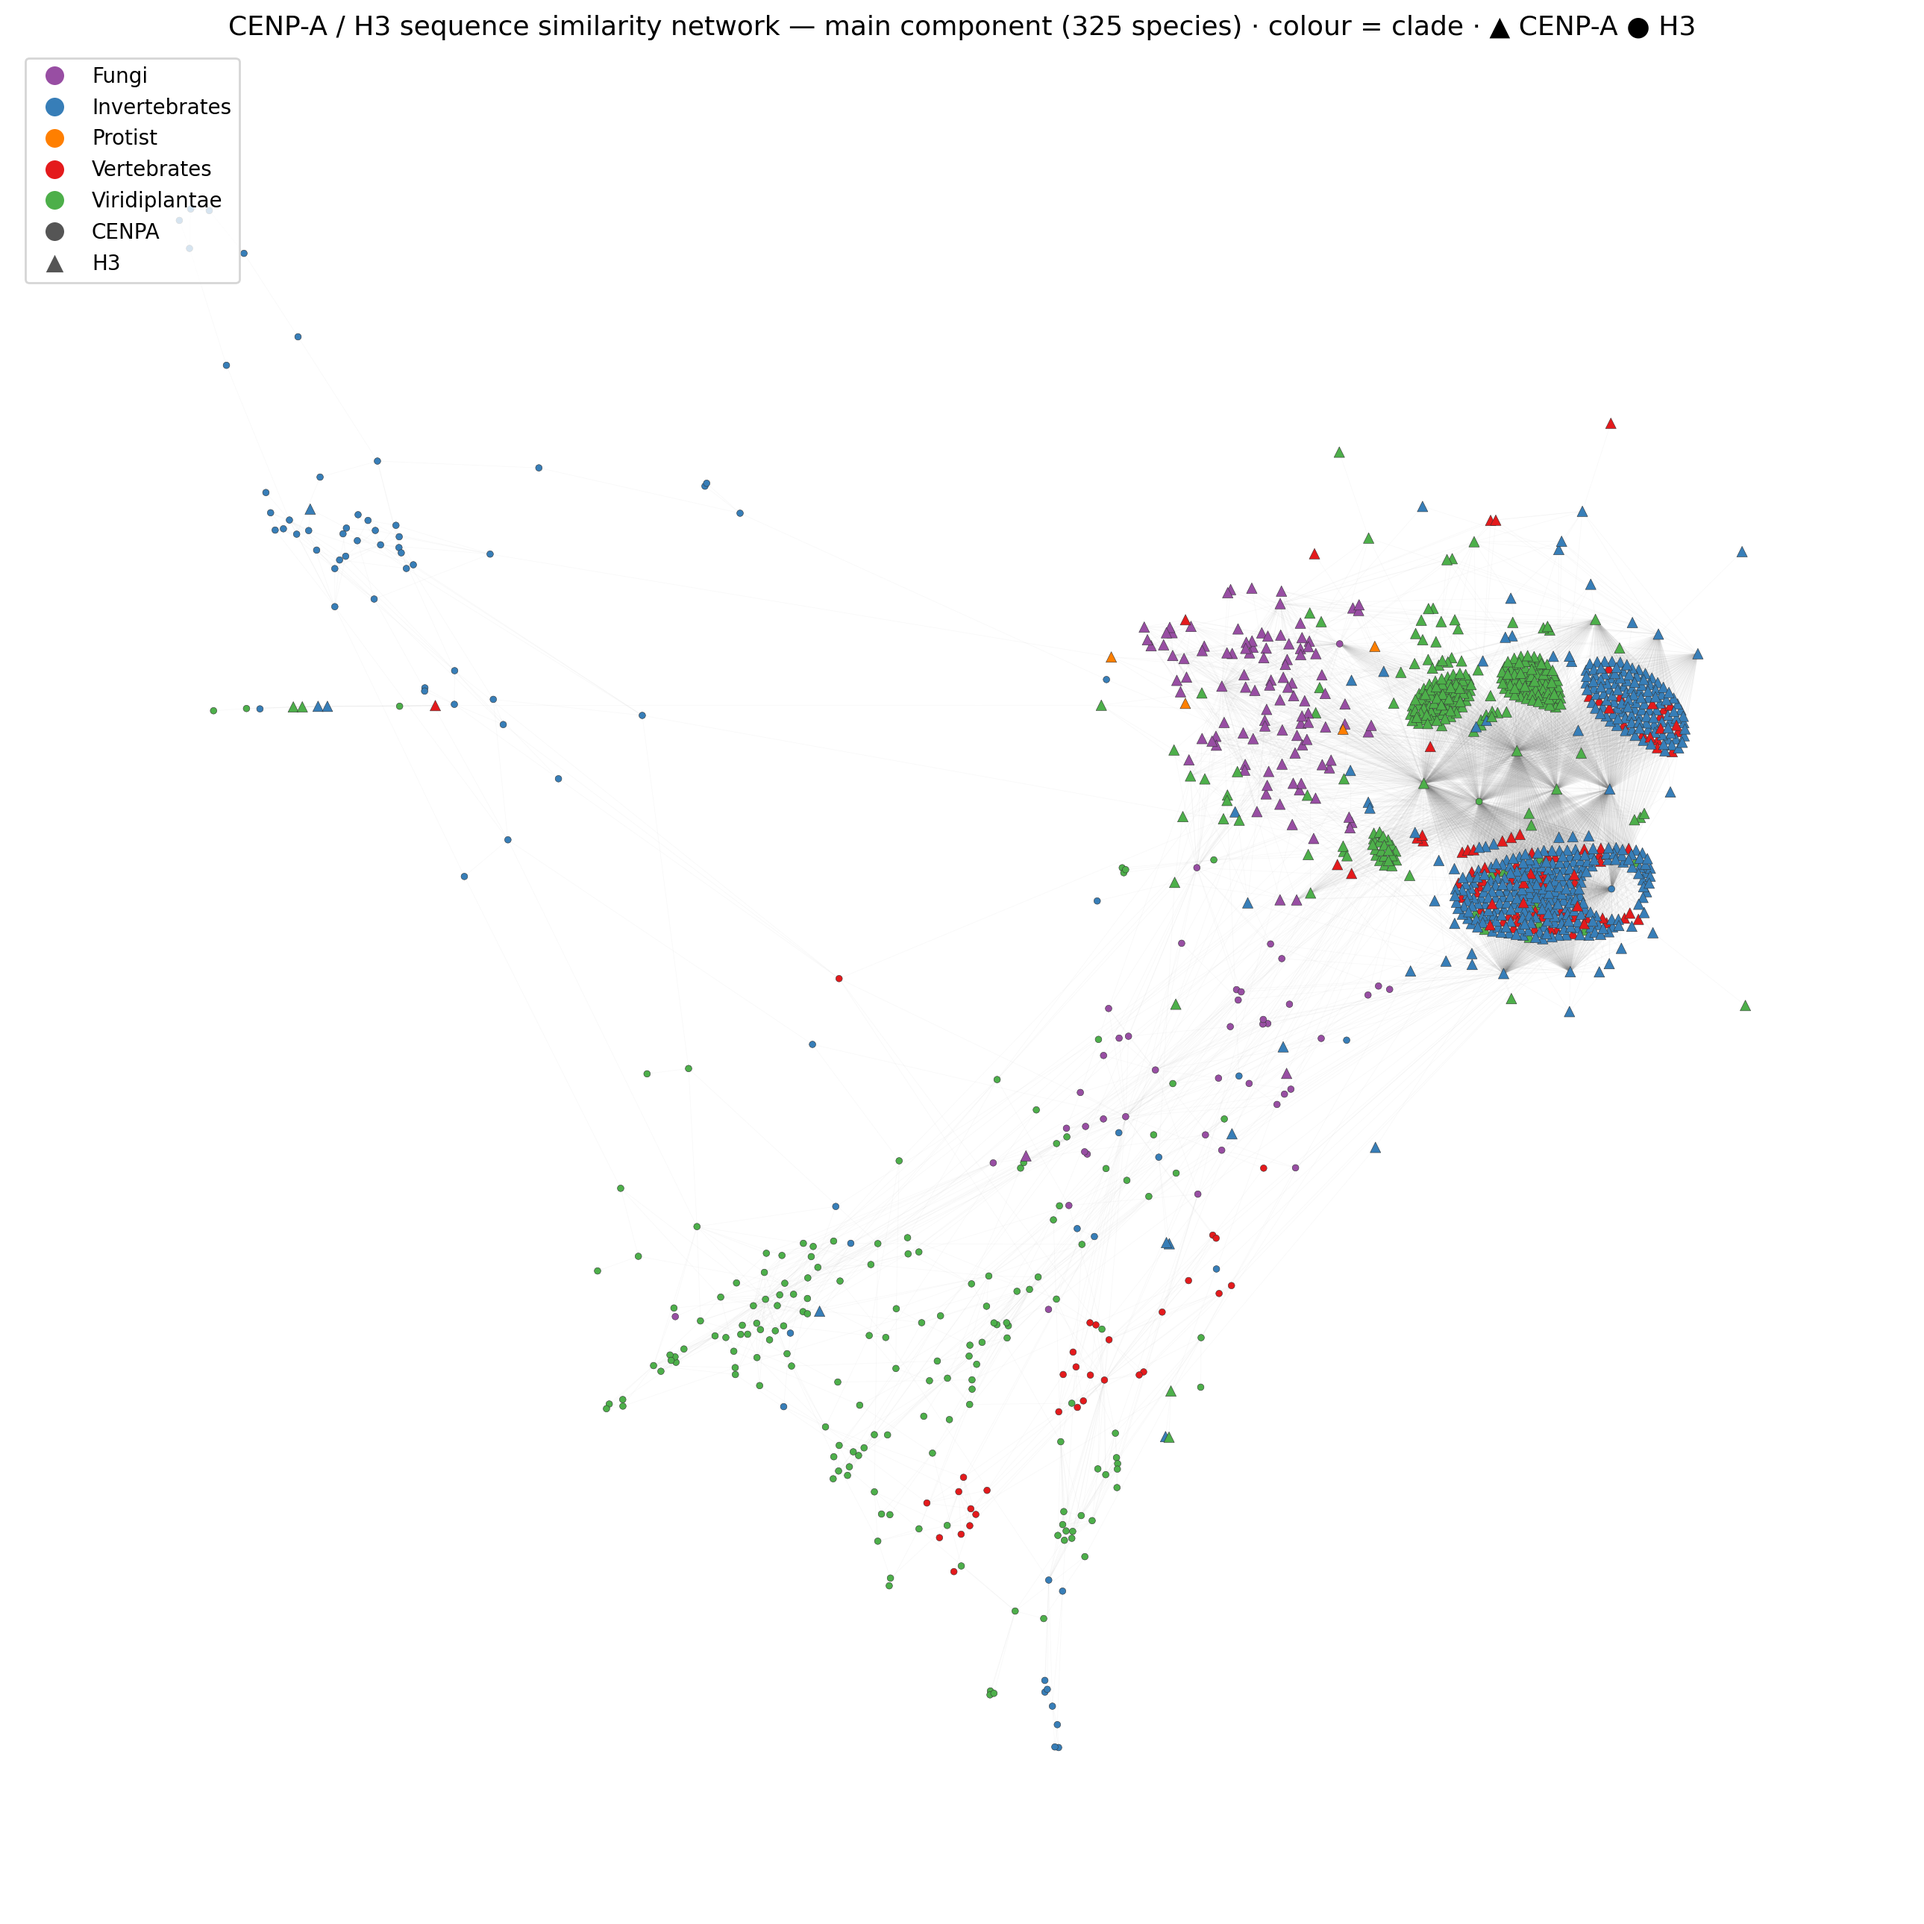
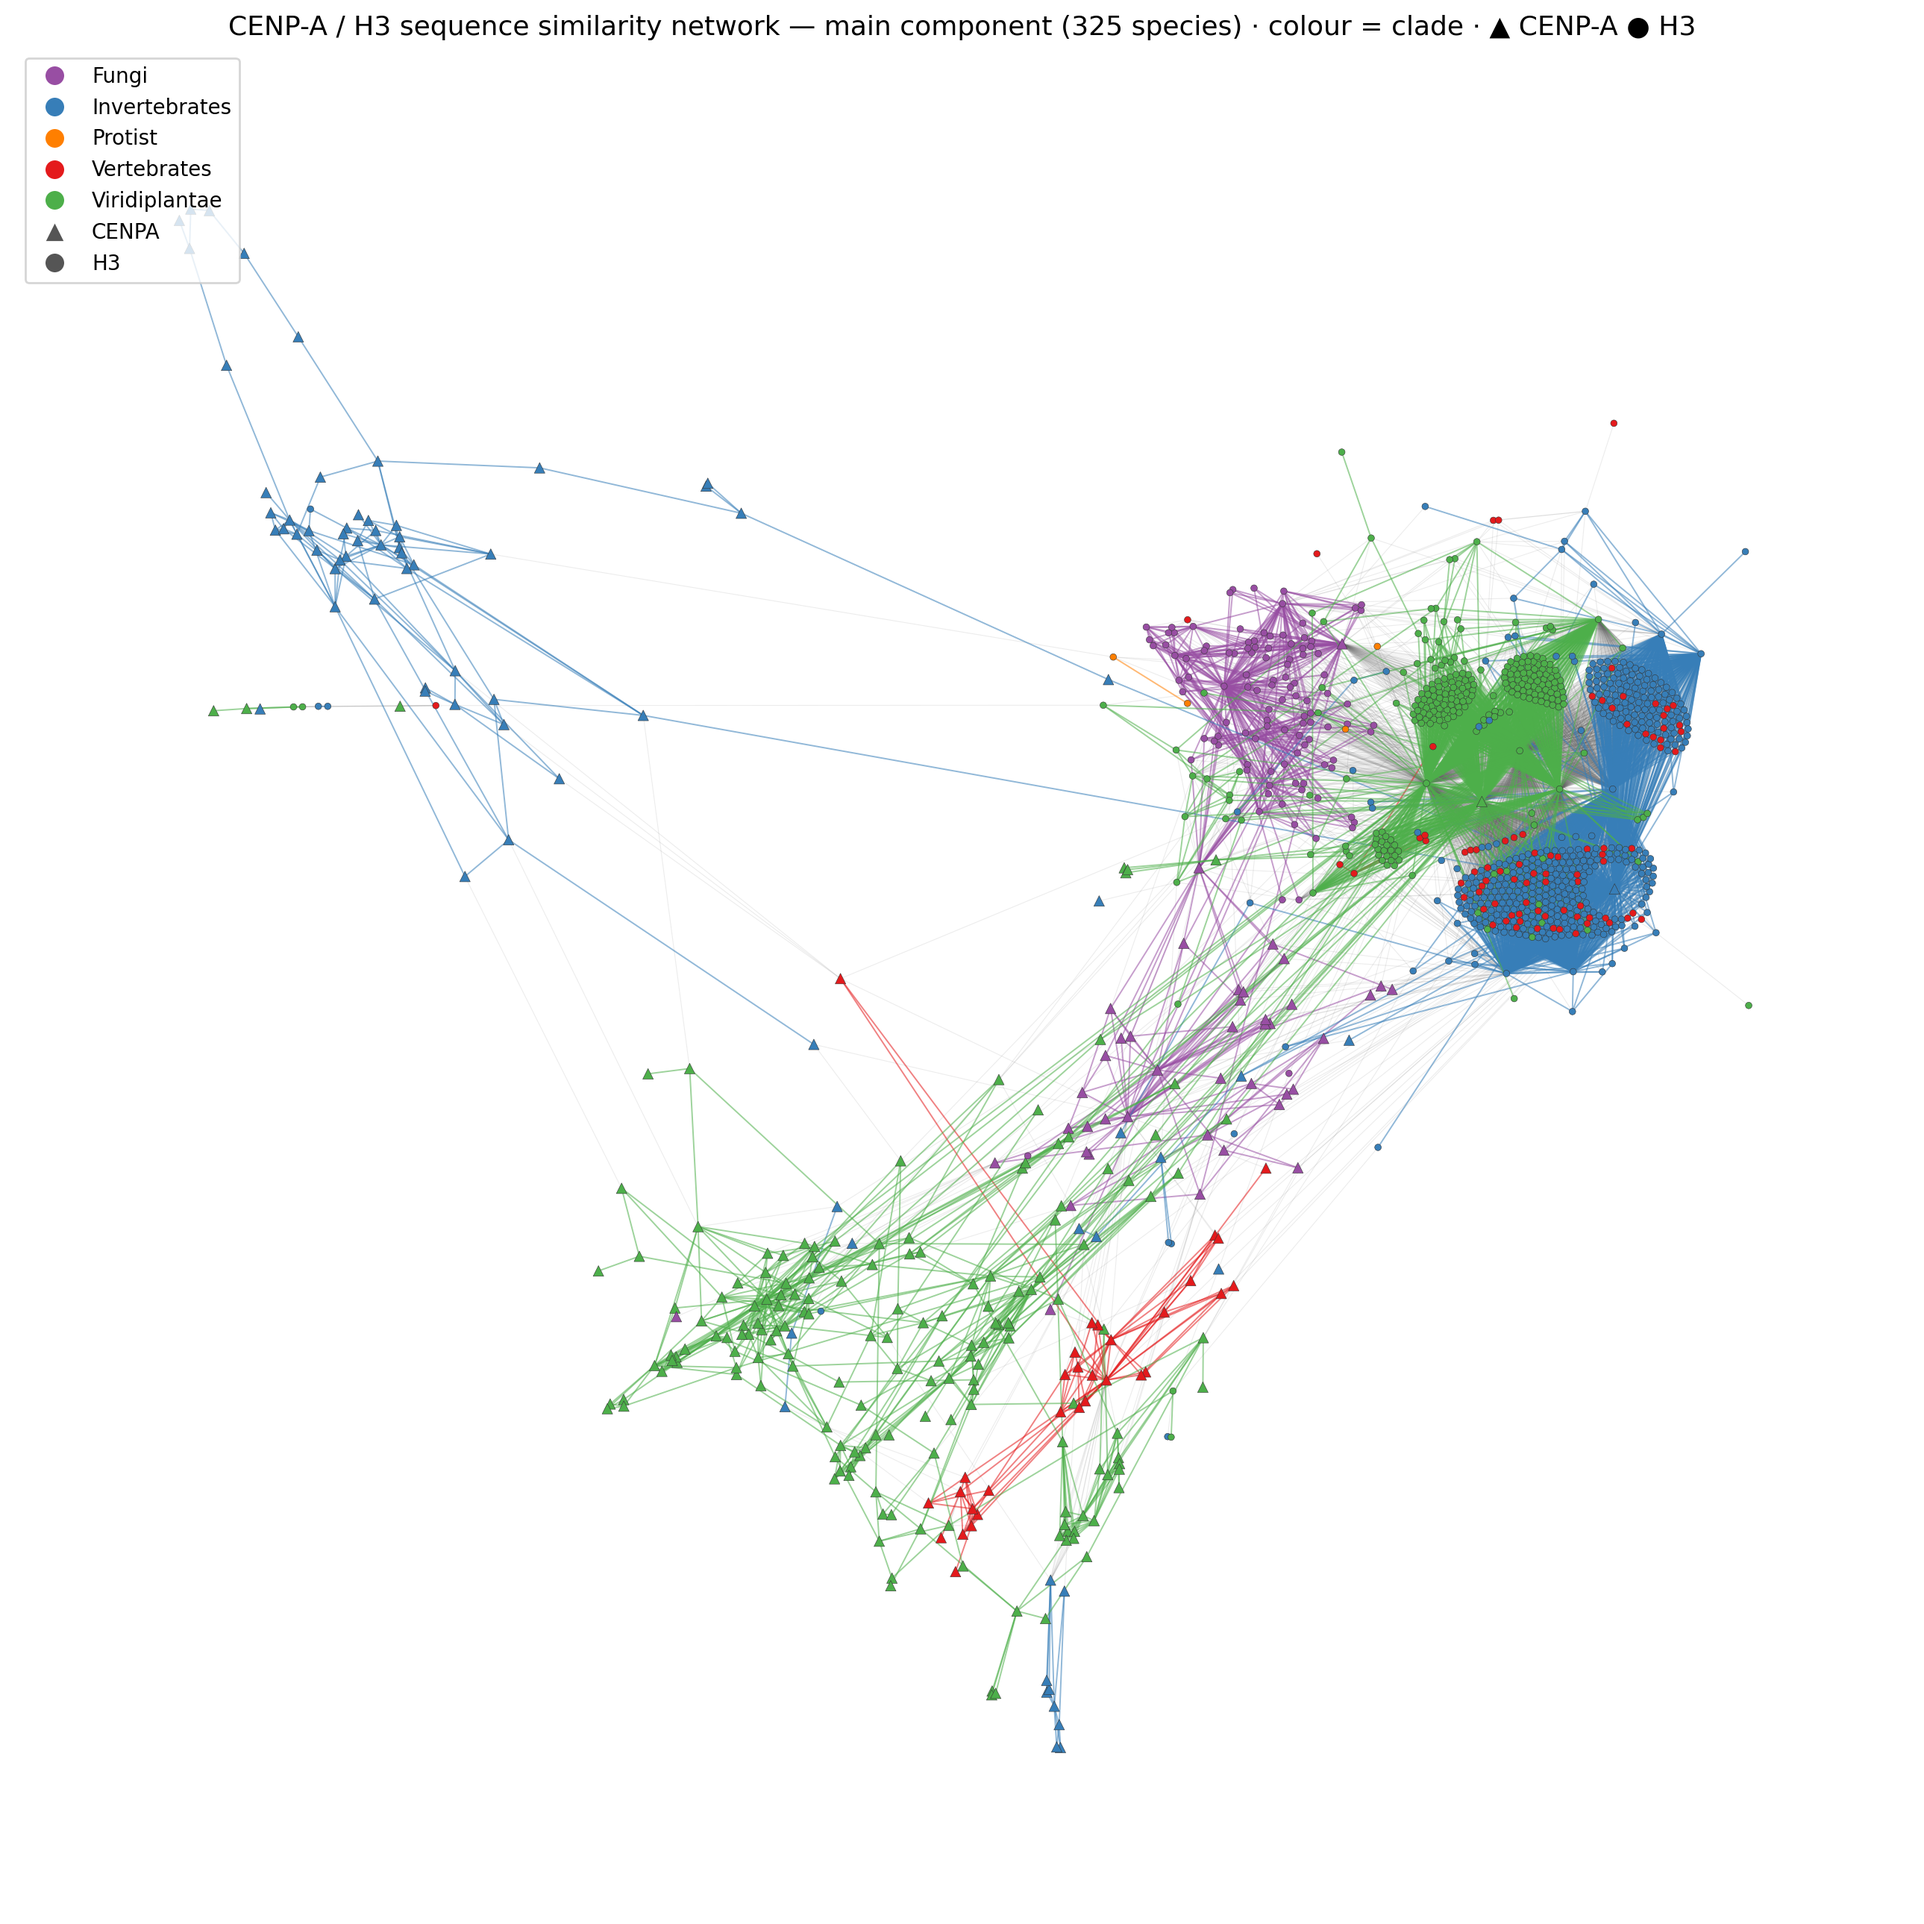
SSN case study: colour edges by clade, darker; fix shapes (CENP-A triangles, H3 circles)
- Within-clade edges now take the clade colour (cross-clade stay faint grey), stronger alpha.
- Explicit SHAPE_MAP so CENP-A=triangle / H3=circle (was assigned alphabetically before).

Changed region(s): [[0.3412, 0.2792, 0.8996, 0.8996], [0.1241, 0.2482, 0.2792, 0.4033], [0.3102, 0.7135, 0.3412, 0.7445]]

diff --git a/examples/cenpa_h3_case_study/color_by_metadata.py b/examples/cenpa_h3_case_study/color_by_metadata.py
@@ -21,6 +21,8 @@ PALETTE = ["#e41a1c","#377eb8","#4daf4a","#984ea3","#ff7f00","#a65628","#f781bf"
 # sensible fixed colours for common taxonomic clades (fall back to PALETTE otherwise)
 CLADE_COLORS = {"Vertebrates":"#e41a1c","Invertebrates":"#377eb8","Viridiplantae":"#4daf4a",
                 "Fungi":"#984ea3","Protist":"#ff7f00"}
+# fixed node shapes for known groups (CENP-A triangles, H3 circles); others fall back to a cycle
+SHAPE_MAP = {"CENPA":"^","CENP-A":"^","CENH3":"^","H3":"o"}
 
 def main():
     ap = argparse.ArgumentParser()
@@ -56,10 +58,21 @@ def main():
         pos = nx.spring_layout(G, k=0.15, iterations=50, seed=1)
 
     fig, ax = plt.subplots(figsize=(13, 13))
-    nx.draw_networkx_edges(G, pos, alpha=0.05, width=0.3, edge_color="#888", ax=ax)
+    # edges: within-clade edges take the clade colour; cross-clade edges stay faint grey
+    within = {c: [] for c in cats}
+    between = []
+    for u, v in G.edges():
+        cu, cv = col.get(u), col.get(v)
+        (within[cu] if (cu == cv and cu in within) else between).append((u, v))
+    nx.draw_networkx_edges(G, pos, edgelist=between, alpha=0.12, width=0.4, edge_color="#666", ax=ax)
+    for c, elist in within.items():
+        if elist:
+            nx.draw_networkx_edges(G, pos, edgelist=elist, alpha=0.55, width=0.7,
+                                   edge_color=pal[c], ax=ax)
     if a.shape_col:
         shp = meta[a.shape_col].to_dict()
-        markers = dict(zip(sorted(set(shp.values())), itertools.cycle(["o","^","s","D","v"])))
+        extra = itertools.cycle(["s","D","v","p","*"])
+        markers = {s: SHAPE_MAP.get(s, next(extra)) for s in sorted(set(shp.values()))}
         for sval, mk in markers.items():
             ns = [n for n in G if shp.get(n) == sval]
             nx.draw_networkx_nodes(G, pos, nodelist=ns, node_shape=mk,
